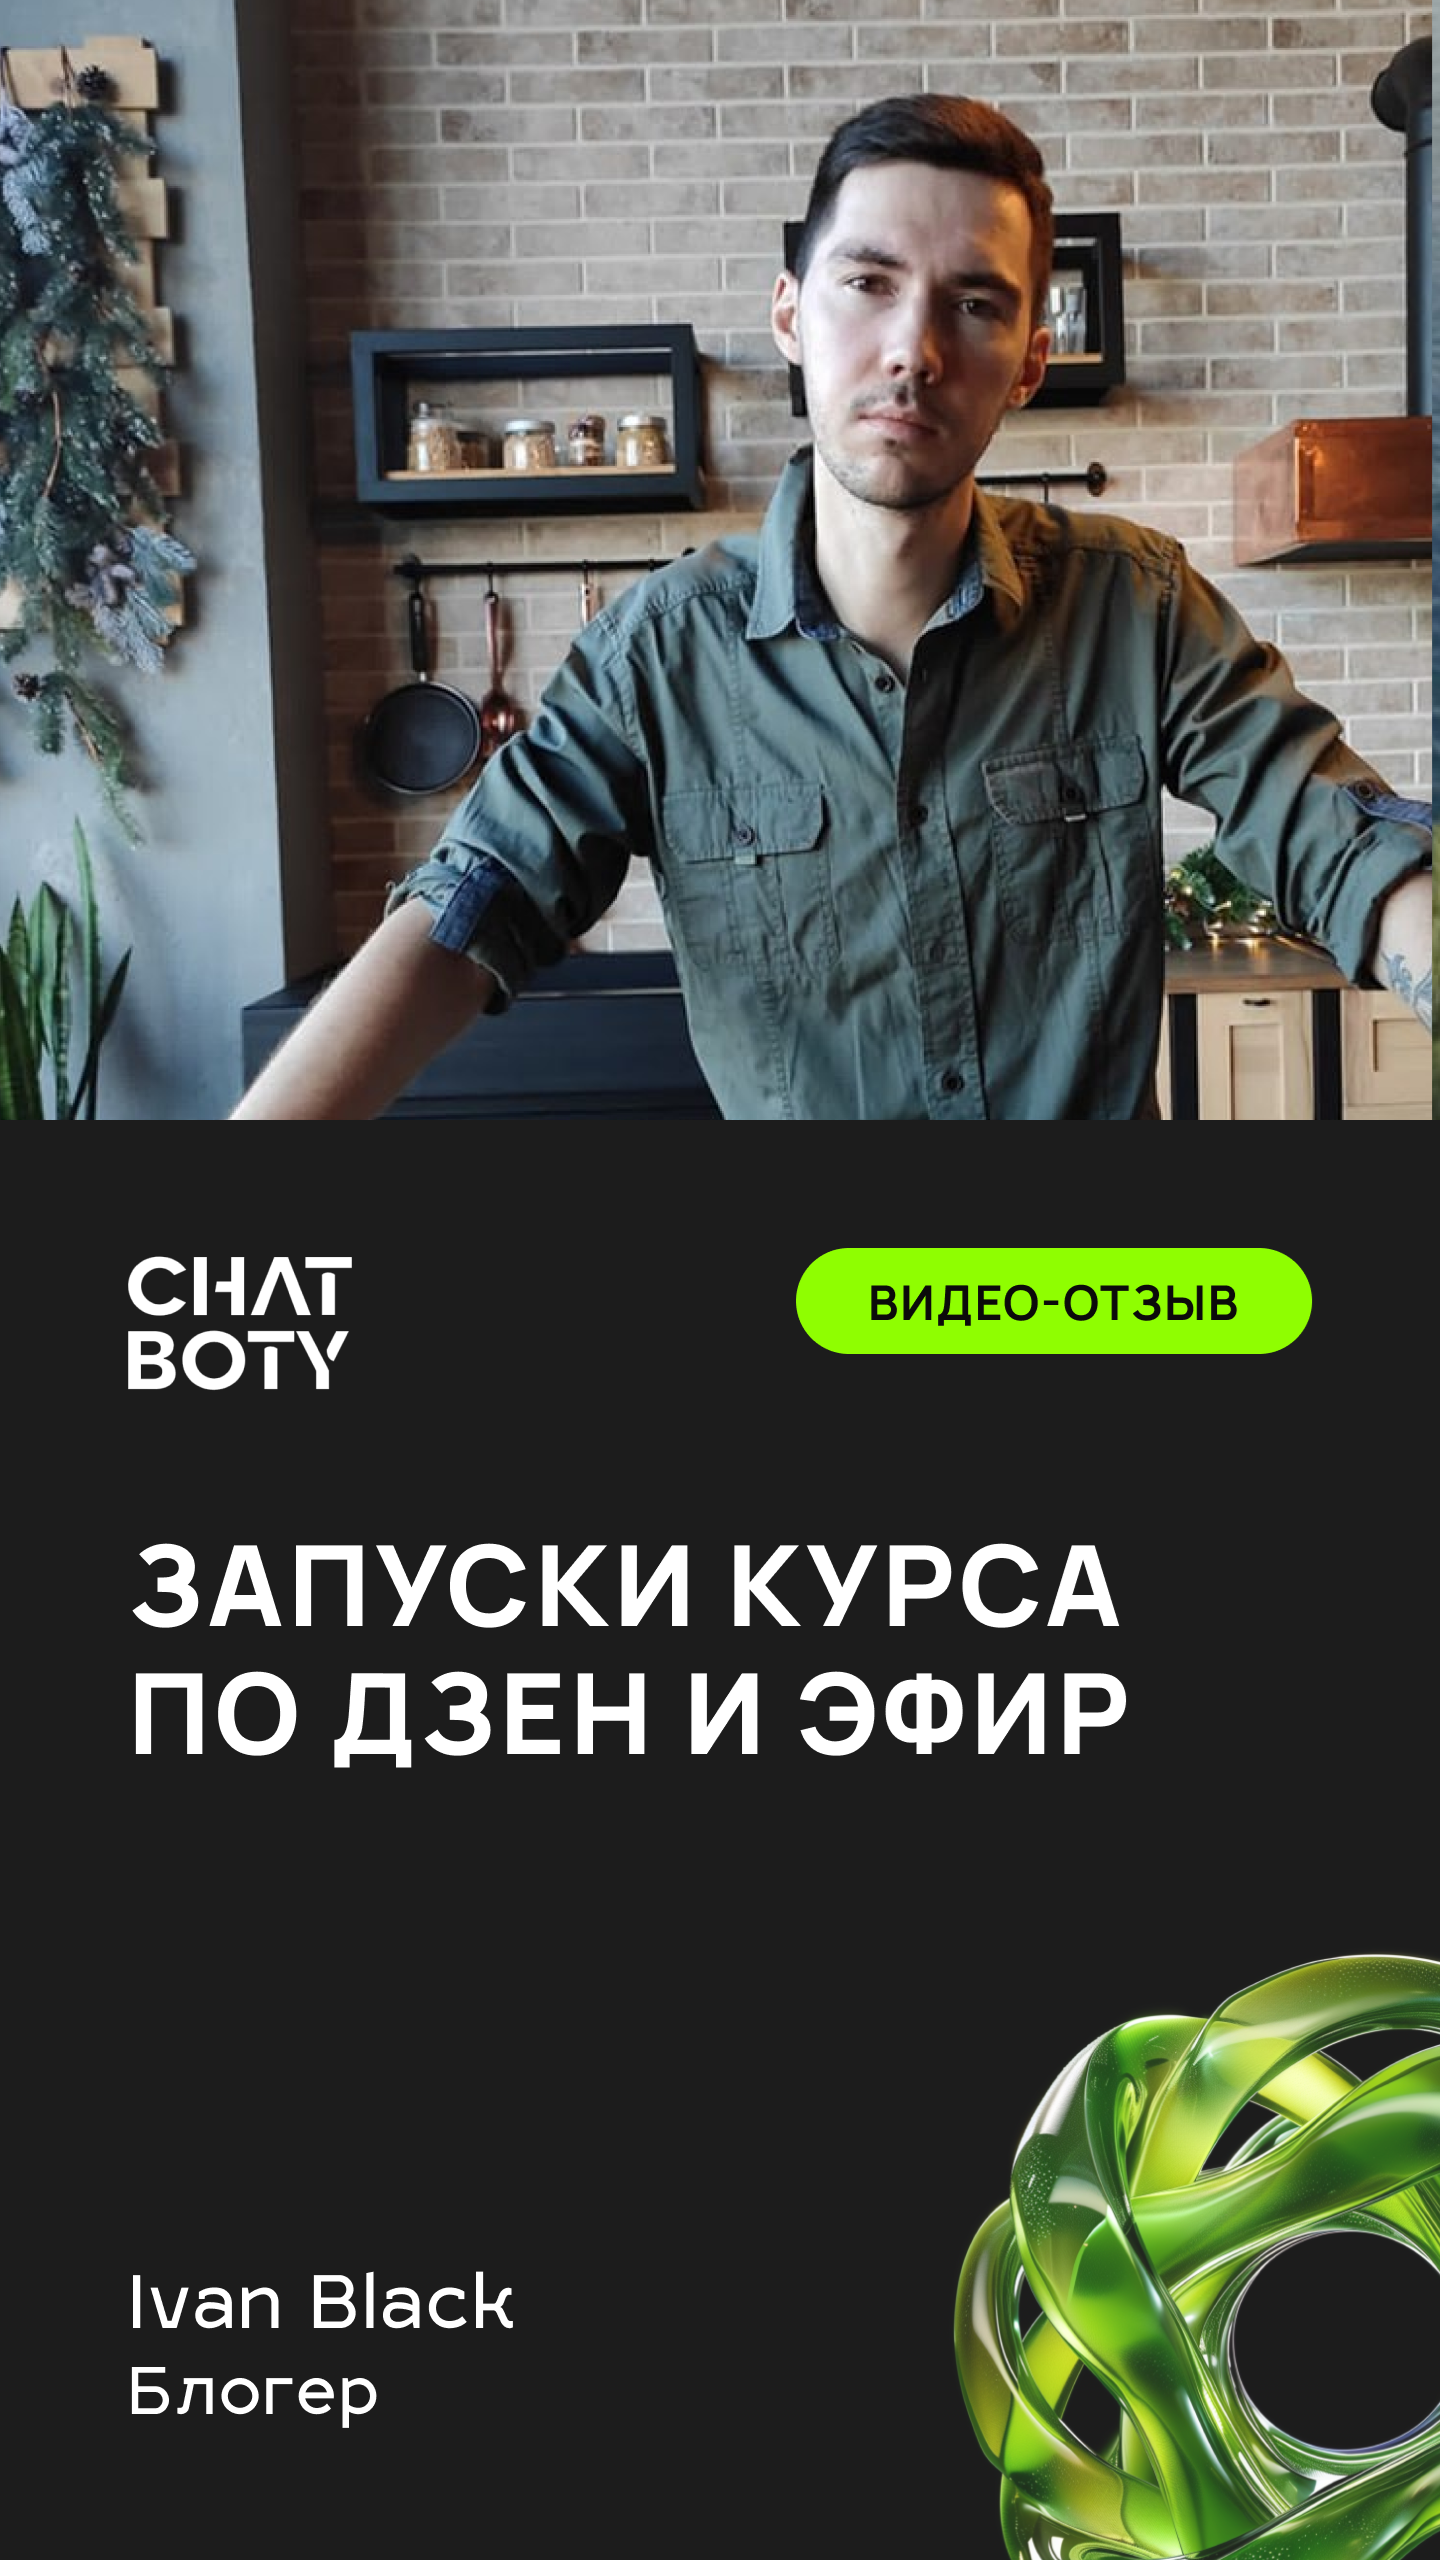
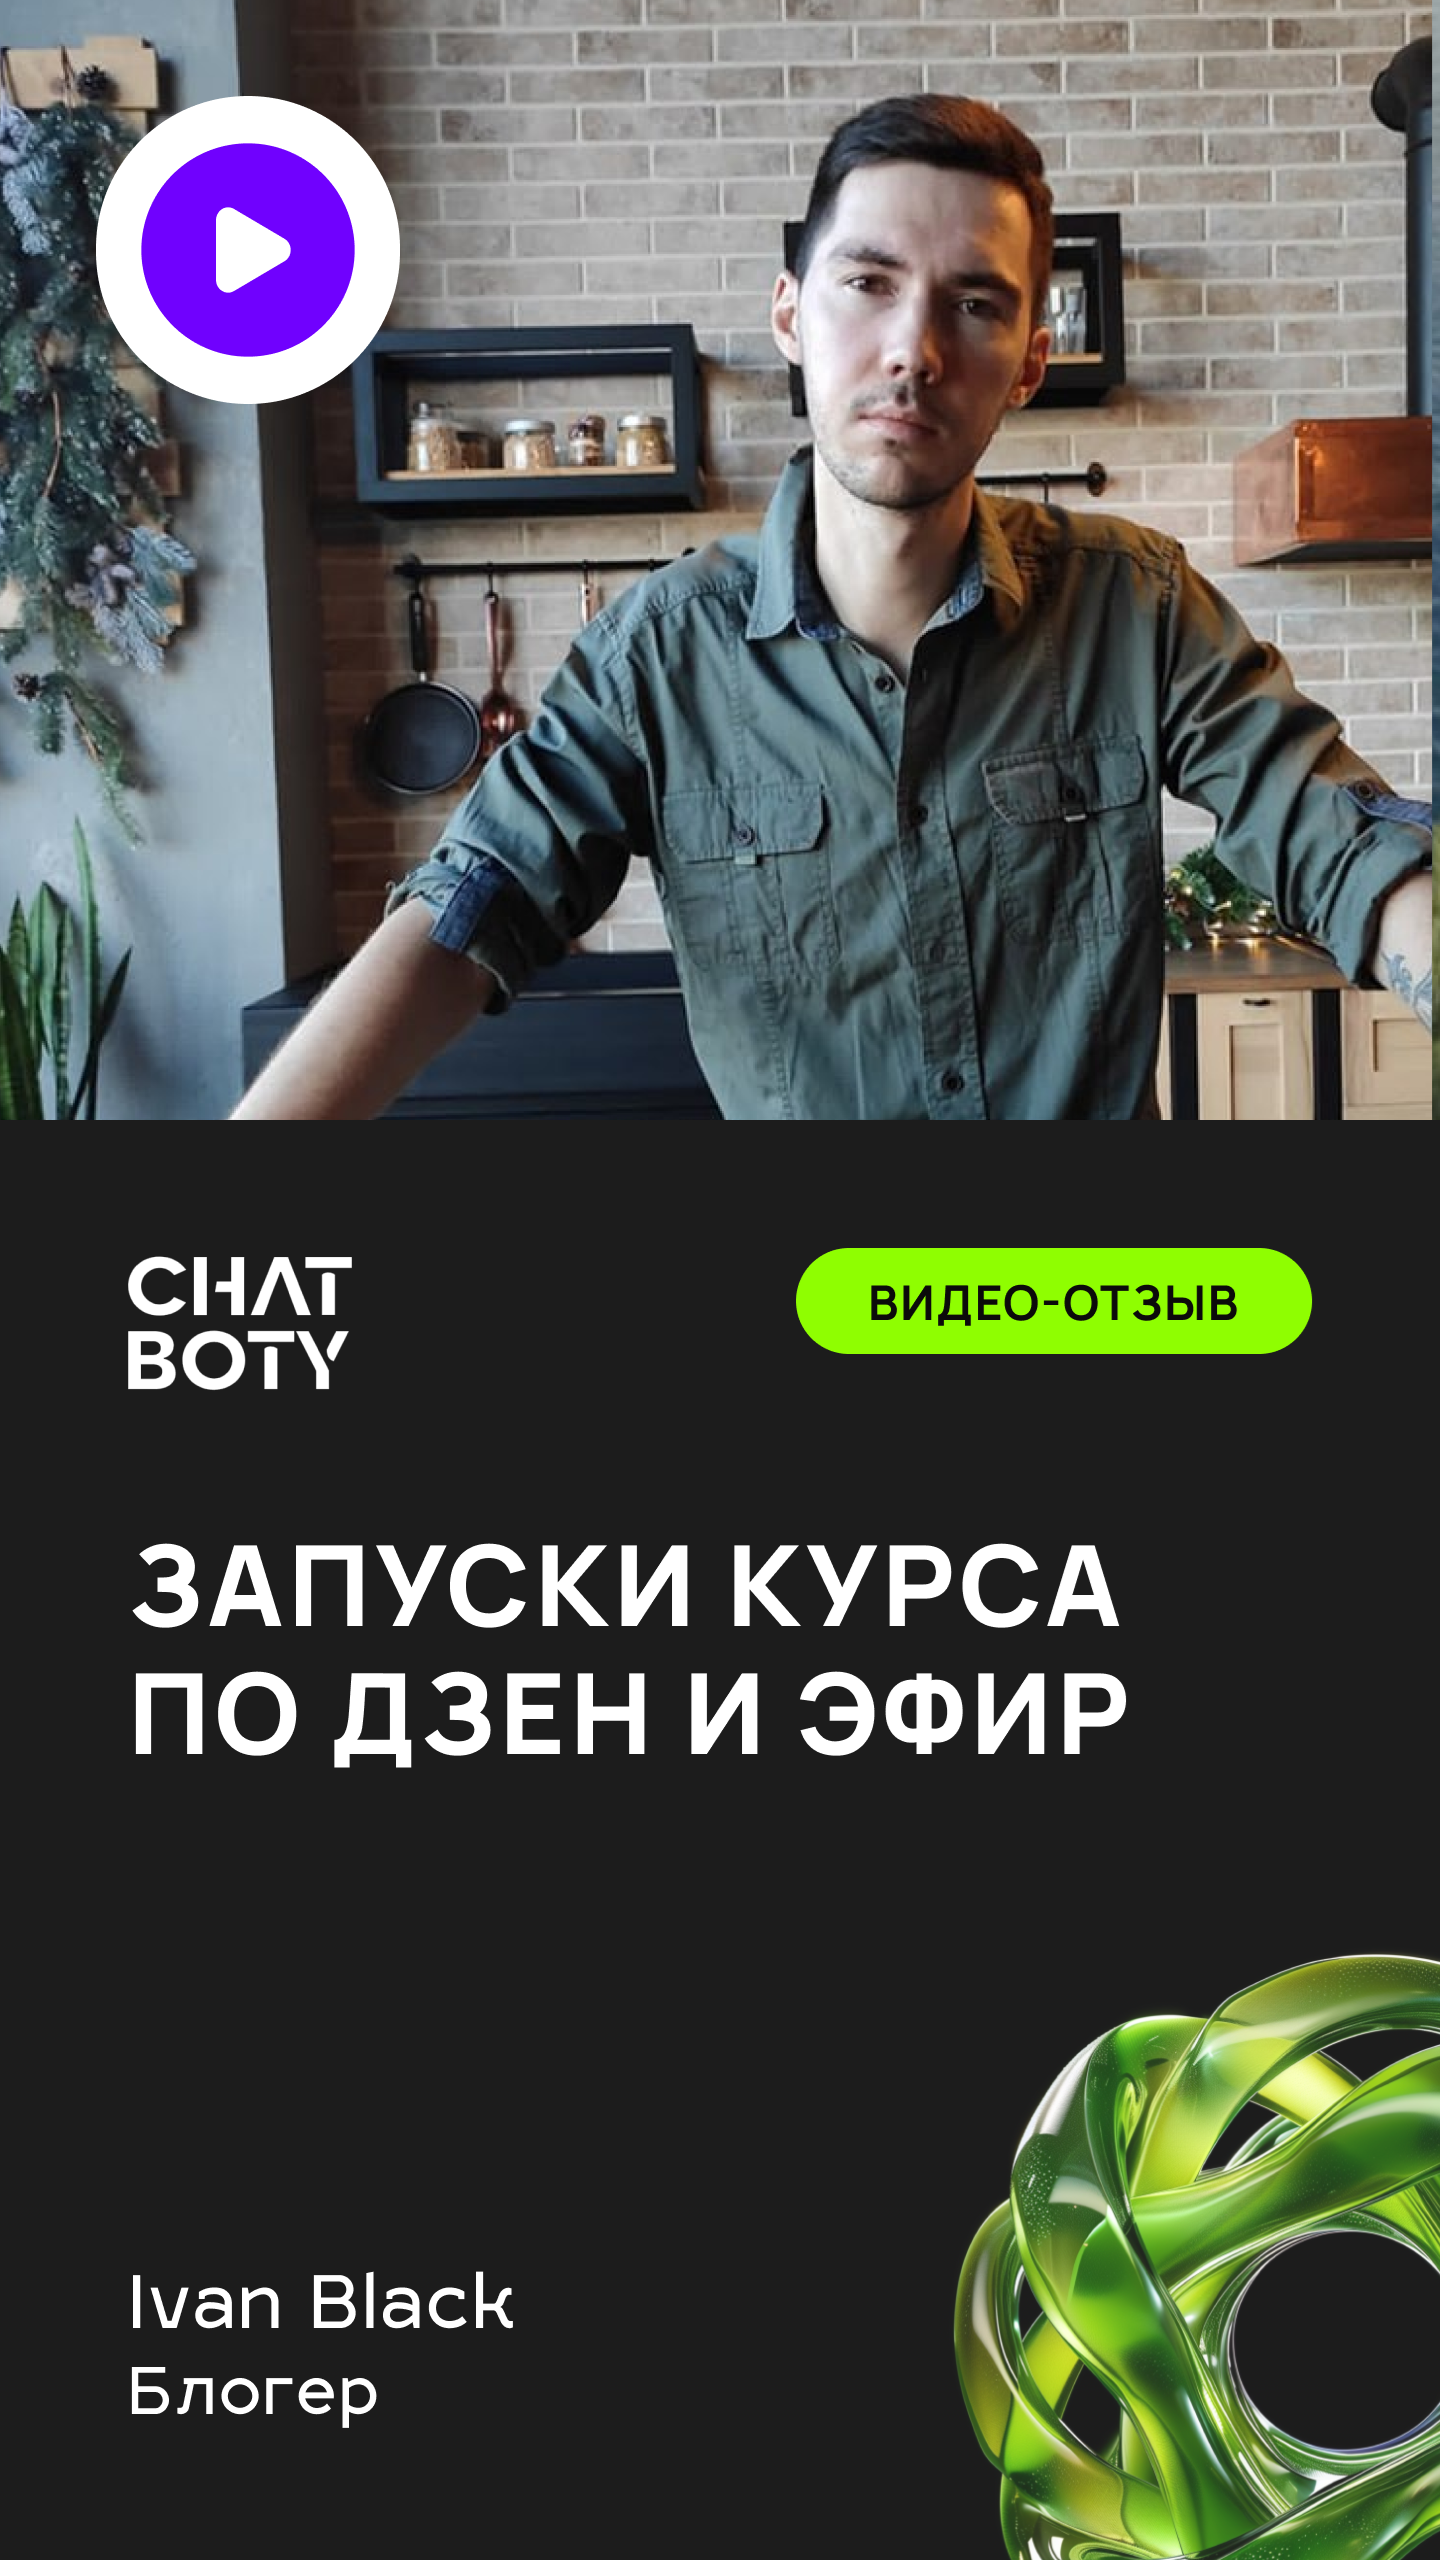
video covers

Changed region(s): [[0.0625, 0.0312, 0.2812, 0.1562]]

diff --git a/src/constants/static.tsx b/src/constants/static.tsx
@@ -40,7 +40,7 @@ export const textReviews = [
   },
   {
     text: 'Сегодня в чате поддержки АП я задал вопрос про VK donut и реализацию уведомлений по ним и Никита  пришёл ко мне на помощь\n\nБолее того, я веду сообщество в вк донат с первого дня создания подписной стены и я всегда мечтал (именно мечтал, по-другому не скажешь) настроить связь vk donut с АП и Никита все сделал очень быстро.\n\nНикита все сделал очень быстро! Спасибо огромное, Никита! Буду обращаться ещё!',
-    title: 'Мечтал настроить связь vk donut с Автопилотом, Никита всё сделал быстро ',
+    title: 'Мечтал настроить связь vk donut с Автопилотом',
     company: 'Преподаватель английского',
     name: 'Фаил Файзуллин',
     authorLink: 'https://vk.com/frfayzullin',
@@ -56,7 +56,7 @@ export const textReviews = [
   },
   {
     text: 'Работали с Никитой с конца февраля, помогал смыслами с воронкой, дожимами. Делал быстро всю техническую часть по ботам в телеграм и инстаграм.\n\nСделал сайт на креатиум быстро, не нужно было искать 100500 специалистов. Помог снизить комиссию по эквайрингу, остались довольны работой',
-    title: 'Стабильно делали много рассылок и ботов, Никита со всем справлялся',
+    title: 'Стабильно делали много рассылок и ботов',
     company: 'Продюсер',
     name: 'Алёна Мелниченко',
     authorLink: 'https://t.me/alena_melnic',
@@ -64,7 +64,7 @@ export const textReviews = [
   },
 	{
     text: 'Работаем с Никитой с начала 2023 года, работает с базой в ВК, ТГ, Инсте и e-mail, также пробовали SMS\n\nСейчас подключили WhatsApp и работа идёт ежедневно по всем направлениям. Радует, что Никита всегда на связи, показал много инструментов в ботах, которые мы не использовали на 100%.\n\nТакже ведёт карты и работает с репутацией, всем довольны. Продолжаем работать',
-    title: 'Работаем по всем фронтам: TG, ВК, Инста, WhatsApp и E-mail уже второй год',
+    title: 'Работаем по всем фронтам: TG, ВК, Инста, WhatsApp',
     company: 'РОМ в CHUKCHA',
     name: 'Геогрий Тарасов',
     authorLink: 'https://vk.com/1gt3a5l',
@@ -80,7 +80,7 @@ export const textReviews = [
   },
 	{
     text: 'Работаю с Никитой по рекомендации другого продюсера, мне нравится, что с ним можно созвониться и собрать на месте бота, не нужно ждать неделями всё, также правки все вносились оперативно.\n\nПо ботам ВК, ТГ и Инст - пишу Никите, он может сделать всё под мои запросы',
-    title: 'Делает ботов на месте, пока общаемся, по ботам только к нему',
+    title: 'По ботам только к нему',
     company: 'Продюсер',
     name: 'Евгений Рукин',
     authorLink: 'https://vk.com/evgen_rukin',

diff --git a/src/modules/landing/FiveScreen/modules/components/TextCard.tsx b/src/modules/landing/FiveScreen/modules/components/TextCard.tsx
@@ -15,10 +15,10 @@ interface ITextCard {
 
 export const TextCard = ({ title, text, company, name, avatar, authorLink }: ITextCard) => {
   return (
-    <Card className="h-[301px] flex flex-col phone:h-[356px] tablet:h-auto laptop:h-auto">
-      <h3 className={`phone:text-lg tablet:text-2xl font-bold uppercase phone:mb-4 tablet:mb-10 tracking-wide ${styles.cardTitle}`}>{title}</h3>
+    <Card className="flex flex-col h-auto">
+      <h3 className={`phone:text-lg tablet:text-2xl font-bold uppercase phone:mb-4 tablet:mb-10 tracking-wide h-[56px] laptop:h-[96px] whitespace-pre-line ${styles.cardTitle}`}>{title}</h3>
       <p
-        className={` text-base tablet:text-lg leading-6 font-medium whitespace-normal laptop:whitespace-pre-wrap line-clamp-5 tablet:line-clamp-none ${styles.cardText}`}
+        className={`text-base tablet:text-lg leading-6 font-medium whitespace-normal laptop:whitespace-pre-wrap ${styles.cardText}`}
         style={{ letterSpacing: '4%' }}
       >
         {text}

diff --git a/src/modules/landing/FiveScreen/modules/components/VideoCard.tsx b/src/modules/landing/FiveScreen/modules/components/VideoCard.tsx
@@ -1,4 +1,7 @@
 import Image from 'next/image'
+
+import VideoReviewPlayer from './../../../../../constants/svg/VideoReviewPlayer'
+import styles from './style.module.css'
 import { Card } from './ui/Card'
 
 interface IVideoCard {
@@ -11,7 +14,8 @@ interface IVideoCard {
 
 export const VideoCard = ({ onClick, vertical, id, oid, horizontal }: IVideoCard) => {
   return (
-    <Card onClick={() => onClick(id, oid, horizontal)} className="!p-0 h-auto !w-auto">
+    <Card onClick={() => onClick(id, oid, horizontal)} className={`!p-0 h-auto !w-auto cursor-pointer relative ${styles.cardVideo}`}>
+      <VideoReviewPlayer className={`absolute ${styles.playerVideo}`}/>
       <Image src={`${vertical}`} alt={'видео отзыв'} height={640} width={360} />
     </Card>
   )

diff --git a/src/constants/svg/VideoReviewPlayer.jsx b/src/constants/svg/VideoReviewPlayer.jsx
@@ -1,0 +1,19 @@
+import * as React from "react"
+const VideoReviewPlayer = (props) => (
+  <svg
+    xmlns="http://www.w3.org/2000/svg"
+    width={128}
+    height={128}
+    viewBox='0 0 256 256'
+    fill="none"
+    {...props}
+  >
+    <path
+      fill="#fff"
+      fillRule="evenodd"
+      d="M128 234.667c58.91 0 106.667-47.757 106.667-106.667 0-58.91-47.757-106.667-106.667-106.667C69.09 21.333 21.333 69.09 21.333 128c0 58.91 47.757 106.667 106.667 106.667Zm-13.936-65.645 50.349-29.726c8.338-4.924 8.338-17.668 0-22.592l-50.349-29.726C105.96 82.193 96 88.421 96 98.274v59.452c0 9.853 9.96 16.081 18.064 11.296Z"
+      clipRule="evenodd"
+    />
+  </svg>
+)
+export default VideoReviewPlayer

diff --git a/src/modules/landing/FiveScreen/modules/components/style.module.css b/src/modules/landing/FiveScreen/modules/components/style.module.css
@@ -1,4 +1,3 @@
-
 .cardText {
   color: var(--color-additional-3);
 }
@@ -16,4 +15,34 @@
   width: 50px;
   height: 50px;
   background-color: var(--color-additional-3);
+}
+
+.cardVideo::after {
+  content: '';
+  position: absolute;
+  left: 0;
+  top: 0;
+  right: 0;
+  bottom: 0;
+  box-sizing: border-box;
+  opacity: 0;
+  background-color: black;
+  transition: all .3s ease-out;
+}
+
+.cardVideo:hover::after {
+  opacity: .5;
+}
+
+.playerVideo {
+  z-index: 2;
+  left: 50%;
+  top: 50%;
+  margin-top: -68px;
+  margin-left: -68px;
+  opacity: 0;
+  transition: all .3s ease-out;
+}
+.cardVideo:hover .playerVideo {
+  opacity: 1;
 }

diff --git a/src/modules/landing/FiveScreen/modules/components/ui/Card.tsx b/src/modules/landing/FiveScreen/modules/components/ui/Card.tsx
@@ -4,7 +4,7 @@ export const Card = ({ children, onClick, className }: { children: React.ReactNo
   return (
     <div
       onClick={onClick}
-      className={`${styles.card} w-[320px] h-[574px] phone:w-[440px] tablet:w-[728px] laptop:w-[409px] desktop:w-[409px] p-4 tablet:p-8 sm:p-12 phone:pt-14 pb-8 rounded-3xl overflow-hidden ${className}`}
+      className={`${styles.card} w-[320px] h-[574px] phone:w-[440px] tablet:w-[728px] laptop:w-[409px] desktop:w-[409px] p-4 tablet:p-8 sm:p-12 phone:pt-10 laptop:p-14 pb-8 rounded-3xl overflow-hidden ${className}`}
     >
       {children}
     </div>
